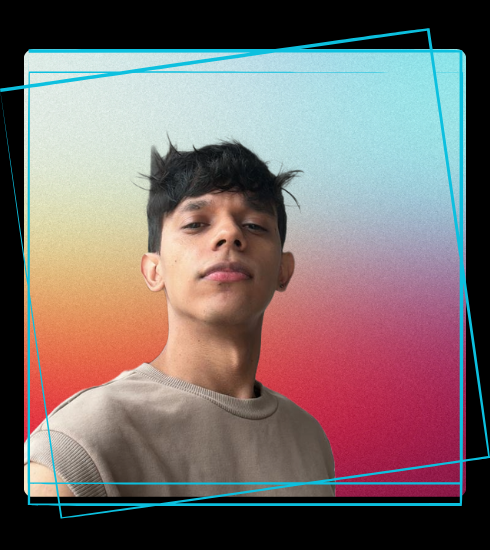
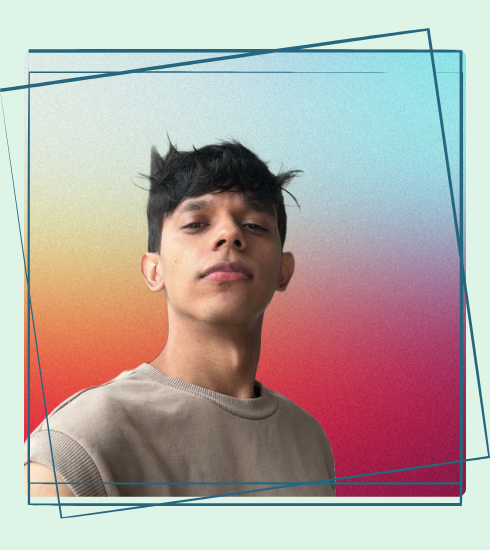
feat: css variables y nav

diff --git a/styles/style.css b/styles/style.css
@@ -1,5 +1,14 @@
 @import url('https://fonts.googleapis.com/css2?family=Krona+One&family=Montserrat:ital,wght@0,100..900;1,100..900&display=swap');
 
+:root{
+    --color-primerio: #DDF4E7;
+    --color-secundario: #67C090;
+    --color-terciario: #26667F;
+
+    --fuente-montserrat: "Montserrat", sans-serif;
+    --fuente-krona-one: "Krona One", sans-serif;
+}
+
 * {
     padding: 0;
     margin:0;
@@ -7,19 +16,34 @@
 
 body{
     box-sizing: border-box;
-    background-color: #000000;
-    color: #F6F6F6;
+    background-color: var(--color-primerio);
+    color: var(--color-secundario);
 }
 
+.header{
+    padding: 2% 0 0 15%;
+}
 
+.header_menu{
+    display: flex;
+    gap: 80px;
+}
+
+.header_menu_link{
+    font-family: "Montserrat", sans-serif;
+    color: var(--color-terciario);
+    font-size: 24px;
+    font-weight: 600;
+    text-decoration: none;
+}
 .titulo-destaque {
-    color: #22D4FD; ;
+    color: var(--color-terciario); ;
 }
 
 .presentacion {
     display: flex;
     align-items: center;
-    margin: 10% 15%;
+    padding: 6% 15%;
     justify-content: space-between;
 }
 
@@ -31,12 +55,12 @@ body{
 }
 
 .presentacion_contenido_titulo{
-    font-family: "Krona One", sans-serif;
+    font-family: var(--fuente-krona-one);
     font-size: 36px;
 }
 
 .presentacion_contenido_texto{
-    font-family: "Montserrat", sans-serif;
+    font-family: var(--fuente-montserrat);
     font-size: 24px;
 }
 
@@ -56,8 +80,8 @@ body{
      font-size: 24px;
      font-weight: 600;
      text-decoration: none;
-     color: #F6F6F6;
-     border: 2px solid #22D4FD;
+     color: var(--color-secundario);
+     border: 2px solid var(--color-terciario);
      display: flex;
      justify-content: center;
      gap: 10px;   
@@ -70,19 +94,19 @@ body{
 }
 
 .presentacion_enlaces_link:hover{
-    background-color: #272727;
+    background-color: #a5dbbe;
 }
 
 .texto_nombre:hover{
-    color: #22D4FD;
+    color: var(--color-terciario);
 }
 
 .footer{
-    background-color: #22D4FD;
+    background-color: var(--color-terciario);
     padding: 18px;
-    color: #000000;
+    color: var(--color-primerio);
     text-align: center;
     font-family: "Montserrat", sans-serif;
     font-size: 24px;
-    font-weight: 400;
+    font-weight: 500;
 }

diff --git a/about.html b/about.html
@@ -1,0 +1,28 @@
+<!DOCTYPE html>
+<html lang="es">
+<head>
+    <meta charset="UTF-8">
+    <meta name="viewport" content="width=device-width, initial-scale=1.0">
+    <link rel="stylesheet" href="/styles/style.css">
+    <title>Sobre mi</title>
+</head>
+<body>
+    <header class="header">
+    <nav class="header_menu">
+       <a class="header_menu_link" href="index.html">Home</a>
+       <a class="header_menu_link" href="about.html">Sobre mí</a> 
+    </nav>
+</header>
+<main class="presentacion">
+    <section class="presentaciom_contenido">
+        <h1 class="presentacion_contenido_titulo">Sobre mí</h1>
+        <p class="presentacion_contenido_texto">Soy Andrés Felipe Salazar, Ingeniero en Sistemas con una tecnología en Desarrollo de Software, apasionado por la inteligencia artificial y la automatización. Cuento con una sólida base en arquitectura de software, diseño de sistemas y metodologías ágiles como Scrum, lo que me permite desarrollar soluciones escalables y orientadas a resultados.</p>
+        <p class="presentacion_contenido_texto">Manejo Python para backend y la integración de modelos de machine learning, además de Firebase para gestión de datos en la nube. En frontend, trabajo con Angular y React para crear interfaces modernas y funcionales. También tengo experiencia con bases de datos SQL y NoSQL, integración de APIs y arquitecturas modulares que optimizan el desarrollo y mantenimiento de aplicaciones.</p>
+    </section>
+    <img src="Imagem.png" alt="Foto de Ana García desarrolando un proyecto">
+</main>
+<footer class="footer">
+        Desarrollado por andres salazar
+</footer>  
+</body>
+</html>

diff --git a/index.html b/index.html
@@ -5,9 +5,15 @@
     <meta http-equiv="X-UA-Compatible" content="IE=edge">
     <meta name="viewport" content="width=device-width, initial-scale=1.0">
     <title>Portafolio</title>
-    <link rel="stylesheet" href="style.css">
+    <link rel="stylesheet" href="/styles/style.css">
 
 </head>
+<header class="header">
+    <nav class="header_menu">
+       <a class="header_menu_link" href="index.html">Home</a>
+       <a class="header_menu_link" href="about.html">Sobre mí</a> 
+    </nav>
+</header>
 <body>
     <header></header>
     <main class="presentacion">
